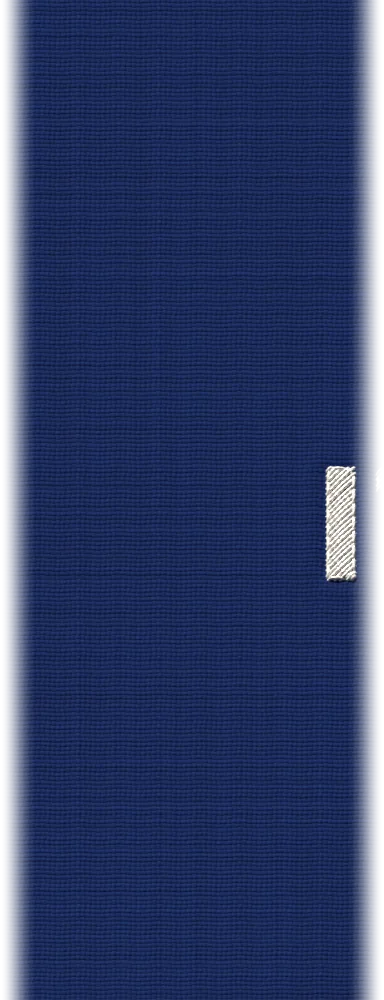
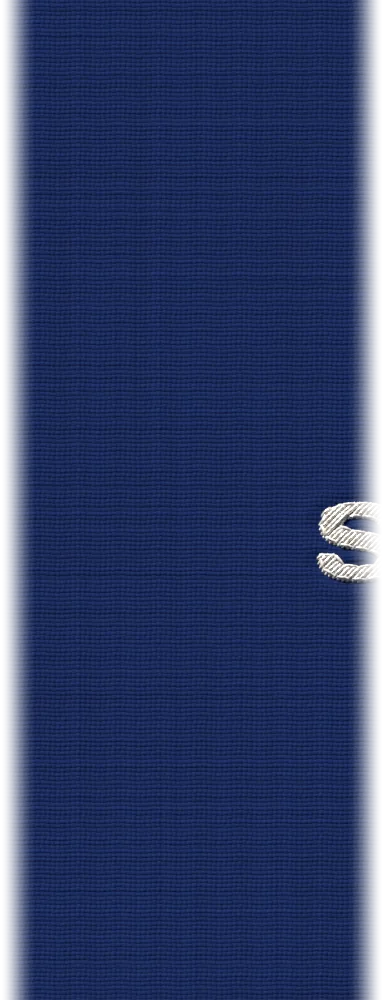
Apertura approvata: "SARTORIA" al posto di "ITALIA" e frasi corrette
Richieste del proprietario sull'apertura approvata:
- la scritta ricamata "ITALIA" diventa "SARTORIA", con sotto "italiana contemporanea";
- sotto "1,3 MILIONI" resta solo "di capi prodotti".
Ricalcolati la fascia di tessuto e la colonna che contengono la scritta. Sui telefoni
lo spostamento laterale segue la larghezza di ogni scritta (ora in film.json).

Claude-Session: https://claude.ai/code/session_01D8Lb2KTLGf2y6eiKFqLGEZ

Changed region(s): [[0.8125, 0.465, 1.0, 0.589]]

diff --git a/src/apertura/apertura.js b/src/apertura/apertura.js
@@ -137,11 +137,14 @@ export async function avviaApertura(radice) {
     radice.style.setProperty('--apertura-testo', (modo === 'alto' ? limita(15 / k, 34, 50) : 34).toFixed(0) + 'px');
     // sugli schermi stretti il tessuto si sposta di lato per mostrare intera la scritta del capitolo
     const mezza = vw / (2 * k);
-    panMax = limita(830 + 36 - mezza, 0, Math.max(0, mezza - 44));
+    // quanto si allontanano dalla cucitura la scritta ricamata e la frase sotto (larga al massimo 640)
+    const fin = (cap) => Math.abs(cap.x - centroX) + Math.max(cap.larghezza || 710, 640);
+    const serve = (cap) => limita(fin(cap) + 36 - mezza, 0, Math.max(0, mezza - 44));
+    panMax = Math.max(...dati.capitoli.map(serve));
     sosta = [[riga0 + passo * (S1 - 0.3), 0]];             // lo spostamento parte solo dopo la dissolvenza: i fotogrammi dell'apertura sono centrati
     for (const cap of dati.capitoli) {
       const centro = (cap.riga_base - cap.altezza_prima + cap.riga_sotto) / 2;
-      const verso = cap.lato === 'dx' ? -panMax : panMax;
+      const verso = (cap.lato === 'dx' ? -1 : 1) * serve(cap);
       sosta.push([centro - 300, verso], [centro + 320, verso]);
     }
     sosta.push([rigaFine, 0]);

diff --git a/anteprima/apertura.html b/anteprima/apertura.html
@@ -41,9 +41,9 @@
   </picture>
   <ol class="apertura__storia">
     <li><span class="apertura__cifra">1996</span><span class="apertura__frase">Inizia la storia di Endero</span></li>
-    <li><span class="apertura__cifra">1,3 milioni</span><span class="apertura__frase">di capi prodotti in trent'anni</span></li>
+    <li><span class="apertura__cifra">1,3 milioni</span><span class="apertura__frase">di capi prodotti</span></li>
     <li><span class="apertura__cifra">2.500</span><span class="apertura__frase">negozi serviti</span></li>
-    <li><span class="apertura__cifra">Italia</span><span class="apertura__frase">Fatto in Italia</span></li>
+    <li><span class="apertura__cifra">Sartoria</span><span class="apertura__frase">italiana contemporanea</span></li>
   </ol>
   <div class="apertura__palco">
     <div class="apertura__tessuto"></div>

diff --git a/film/produci.py b/film/produci.py
@@ -163,7 +163,8 @@ def dati(percorso):
         p = pl[max(0, nl - 1)][1] if nl > 0 else pl[0][0]
         aghi.append([round(colonna_x(float(p[0])), 1), round(riga(float(p[1])), 1)])
     capitoli = []
-    for cap in S.CAPITOLI:
+    forme = S.poligoni_capitoli(TTF)
+    for cap, forma in zip(S.CAPITOLI, forme):
         alt_tot = sum(a for _, a in cap["righe"]) + S.INTERLINEA * (len(cap["righe"]) - 1)
         capitoli.append({
             "lato": cap["lato"], "testi": [t for t, _ in cap["righe"]],
@@ -171,6 +172,7 @@ def dati(percorso):
             "riga_base": round(riga(cap["y"]), 1),                               # linea di base della prima riga
             "riga_sotto": round(riga(cap["y"]) + (alt_tot - cap["righe"][0][1]) * PXM, 1),  # fondo dell'ultima riga
             "altezza_prima": round(cap["righe"][0][1] * PXM, 1),
+            "larghezza": round((forma.bounds[2] - forma.bounds[0]) * PXM, 1),
         })
     n_punti = int(round(abs(S.FINE_CUCITURA) / S.PASSO))
     d = {

diff --git a/film/scena.py b/film/scena.py
@@ -49,7 +49,7 @@ CAPITOLI = [                # scritte ricamate: lato, y della prima linea di bas
     {"lato": "sx", "y": -0.090, "righe": [("1996", 12.5 * MM)]},
     {"lato": "dx", "y": -0.185, "righe": [("1,3", 12.5 * MM), ("MILIONI", 6.2 * MM)]},
     {"lato": "sx", "y": -0.280, "righe": [("2.500", 11.5 * MM)]},
-    {"lato": "dx", "y": -0.375, "righe": [("ITALIA", 9.3 * MM)]},
+    {"lato": "dx", "y": -0.375, "righe": [("SARTORIA", 6.3 * MM)]},
 ]
 LOGO_LARG = 0.092           # larghezza del logo
 LOGO_Y = -0.500

diff --git a/CLAUDE.md b/CLAUDE.md
@@ -5,7 +5,7 @@ Sito nuovo, da zero, per Endero: manifattura campana di camicie e abbigliamento 
 Questo file è la memoria del progetto: si aggiorna con la skill `memoria`.
 
 - Cosa costruire e come: `docs/direzione-creativa.md`. Si parte da lì.
-- Film 3D dell'apertura: scena e calcolo in `film/`, lettore in `src/apertura/`, pagina di prova `anteprima/apertura.html` (si apre con un server locale dalla radice del progetto). Dettagli al punto 4 della direzione creativa.
+- Film 3D dell'apertura: scena e calcolo in `film/`, lettore in `src/apertura/`, pezzi pronti in `public/film/`, pagina di prova `anteprima/apertura.html` (si apre con un server locale dalla radice del progetto). Approvato dal proprietario il 2026-11-15: non si rifà, si integra nella pagina iniziale. Dettagli al punto 4 della direzione creativa.
 - Fatti sul brand e fonti: `docs/ricerca-endero.md`.
 - Logo vettoriale: `brand/logo/`.
 
@@ -63,7 +63,8 @@ Sito e aspetto
 - 2026-11-14 · Apertura "La cucitura": scorrere è cucire. La cucitura racconta la storia e ricama il logo, poi il telo si solleva sul sito. Si rivede completa a ogni visita, con link per saltarla. Scartate: versione breve automatica e video con logo in sovrimpressione.
 - 2026-11-14 · L'apertura è un film 3D realistico calcolato in anticipo con Blender, che avanza con lo scorrimento, preceduto da un caricatore. Il proprietario ha bocciato la versione disegnata in SVG ("non deve essere una cosa fatta in vettoriale e schifosa in 2D"): non riproporla. Scartati anche il 3D calcolato in diretta nel browser e le riprese vere.
 - 2026-11-14 · Regia del film: si apre in primo piano sull'ago, poi la camera sale alla vista dall'alto dal lato di chi cuce, con la macchina in piedi al centro e le scritte ricamate a destra e a sinistra della cucitura; alla fine la macchina ricama il logo. Macchina essenziale, solo parti in acciaio.
-- 2026-11-14 · Scritte ricamate nel tessuto: "1996", "1,3" con "MILIONI" sotto (il proprietario non vuole "M" né "MLN": potrebbero non essere capiti), "2.500", "ITALIA". Sotto ognuna una frase in testo vero, che scorre insieme al tessuto.
+- 2026-11-15 · Scritte ricamate nel tessuto e frasi sotto, in testo vero: "1996" ("Inizia la storia di Endero"), "1,3" con "MILIONI" sotto ("di capi prodotti"), "2.500" ("negozi serviti"), "SARTORIA" ("italiana contemporanea"). Il proprietario non vuole "M" né "MLN" (potrebbero non essere capiti), ha tolto "in trent'anni" e ha bocciato "ITALIA / Fatto in Italia" ("fa schifo"): non riproporli. "Sartoria italiana contemporanea" è una formula sua, si può usare nei testi del sito.
+- 2026-11-15 · Film dell'apertura approvato dal proprietario sui video di computer e telefono. A logo finito la macchina esce dal basso dello schermo, poi la pagina prosegue.
 - 2026-11-14 · Blu del tessuto nel film: scelto da noi su mandato del proprietario ("un blu scuro che funziona con la trama e le ombre"). Luce calda in controluce con ombre profonde, ricamo lucido, tessuto con pieghe e grinze.
 - 2026-11-14 · Il blu del logo `#0f285e` prende il posto del nero del riferimento: testi, pillole, piè di pagina. Fondo chiaro caldo.
 - 2026-11-14 · Carattere: alternativa gratuita a Field Gothic Wide, cioè Archivo variabile con asse della larghezza, ospitato sul sito. Scartato l'acquisto dell'originale.

diff --git a/docs/direzione-creativa.md b/docs/direzione-creativa.md
@@ -58,7 +58,7 @@ Il blu del logo prende il posto del nero. Tutto il resto resta come il riferimen
 | 0 | (non c'è) | **Apertura "La cucitura"**, vedi punto 4. |
 | 1 | Testata | Scritta Endero. Pillole: "Prenota la presa misure", "Collezione". Pillola fissa: "Scrivici su WhatsApp". |
 | 2 | Video a tutto schermo | Video vero del laboratorio. Titolo: "Camicie su misura, fatte in Italia". |
-| 3 | Nastro di loghi | Nastro di fatti: "Dal 1996 · 1,3 milioni di capi · 2.500 negozi serviti · Fatto in Italia". |
+| 3 | Nastro di loghi | Nastro di fatti: "Dal 1996 · 1,3 milioni di capi · 2.500 negozi serviti · Sartoria italiana contemporanea". |
 | 4 | Selettore | "Su misura · Collezione · Storia · Dove siamo": porta alle sezioni della pagina, ognuna con il link alla pagina completa. |
 | 5–6 | Titolo e griglia di foto | "Su misura": dettagli di colli, polsi, tessuti. Etichette "Su misura" / "Pronta". Scheda al passaggio con nome e tessuto. |
 | 7 | Foto grande con scheda | Presa misure: scheda in vetro con le voci della scheda misure e invito a prenotare. |
@@ -78,7 +78,7 @@ Un film 3D realistico, calcolato in anticipo con Blender, che avanza con lo scor
 **Regia, in tre tempi.**
 
 1. *Primo piano.* L'ago e il piedino in acciaio visti da vicino, con la profondità di campo di un obiettivo macro. L'ago fa i primi punti.
-2. *Vista dall'alto.* La camera sale e si ferma sopra il tessuto, dal lato di chi cuce: la macchina resta in piedi al centro, il tessuto scorre verso l'alto. A destra e a sinistra della cucitura passano le scritte ricamate (1996, 1,3 MILIONI, 2.500, ITALIA), ognuna con sotto la sua frase in testo vero.
+2. *Vista dall'alto.* La camera sale e si ferma sopra il tessuto, dal lato di chi cuce: la macchina resta in piedi al centro, il tessuto scorre verso l'alto. A destra e a sinistra della cucitura passano le scritte ricamate (1996, 1,3 MILIONI, 2.500, SARTORIA), ognuna con sotto la sua frase in testo vero: "Inizia la storia di Endero", "di capi prodotti", "negozi serviti", "italiana contemporanea".
 3. *Logo.* Finita la cucitura, la macchina si sposta sul logo e lo ricama: prima il simbolo, poi la scritta da sinistra a destra. A logo finito la macchina si ritira verso chi cuce ed esce dal basso dello schermo.
 
 Poi la sezione finisce e la pagina prosegue sul sito.
